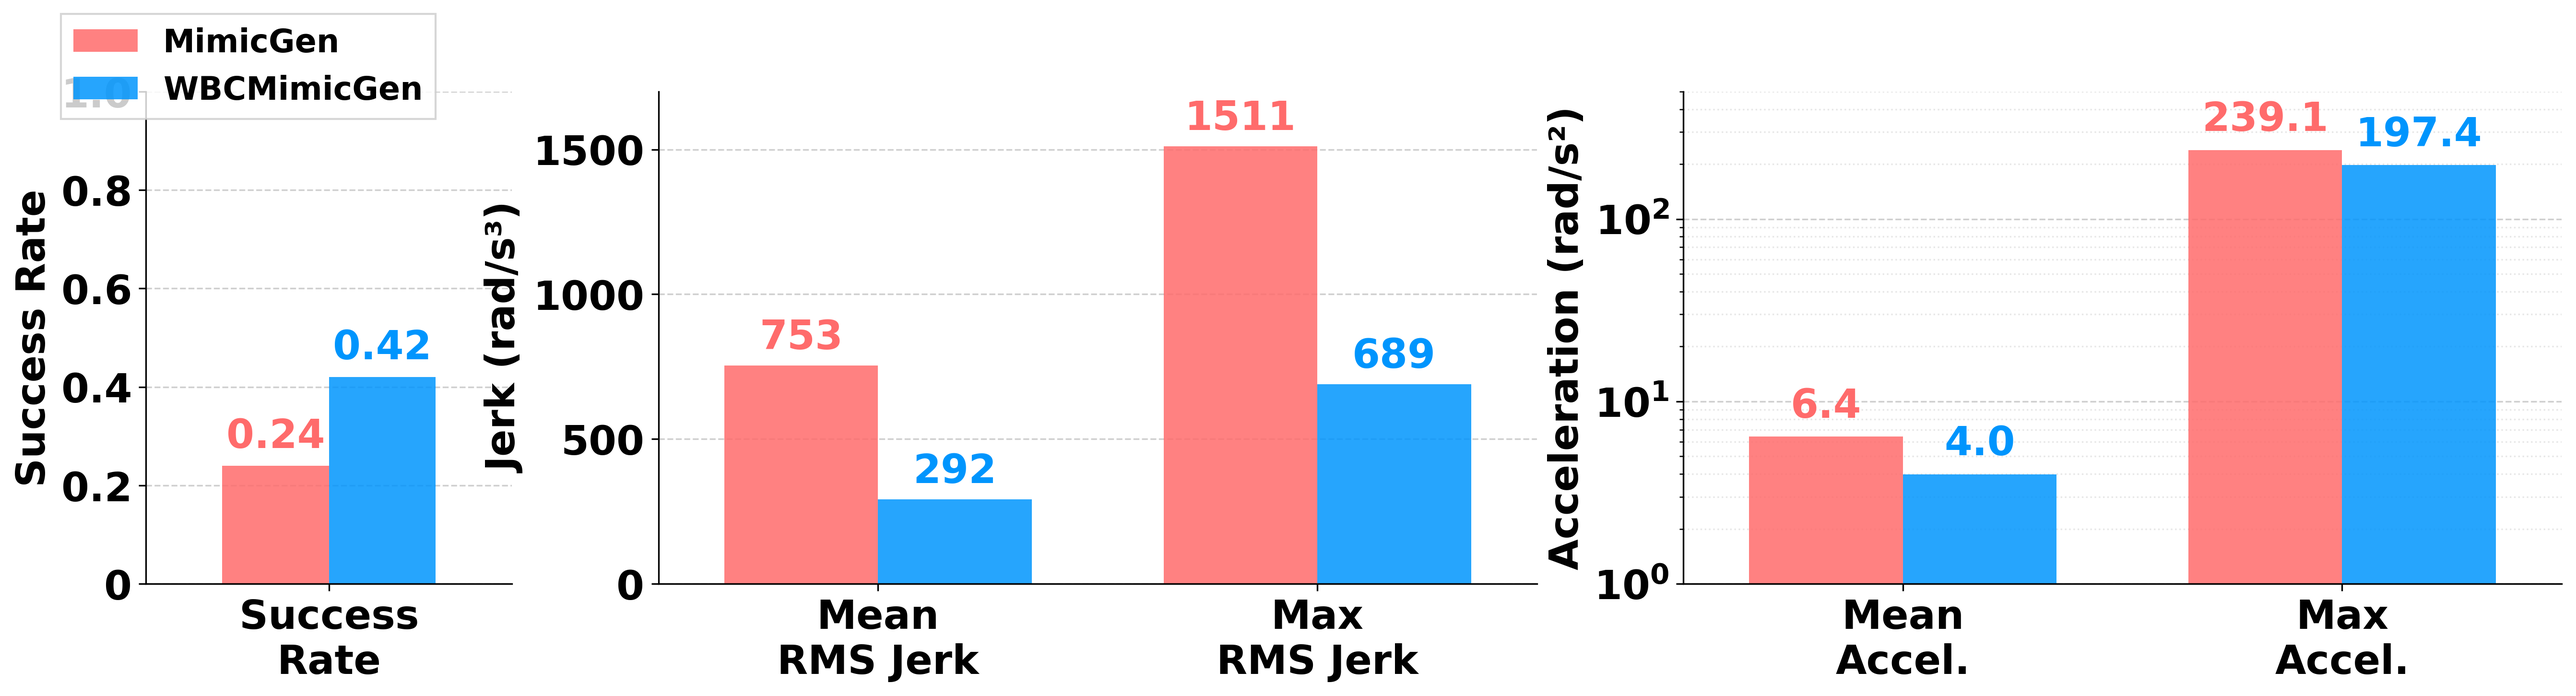
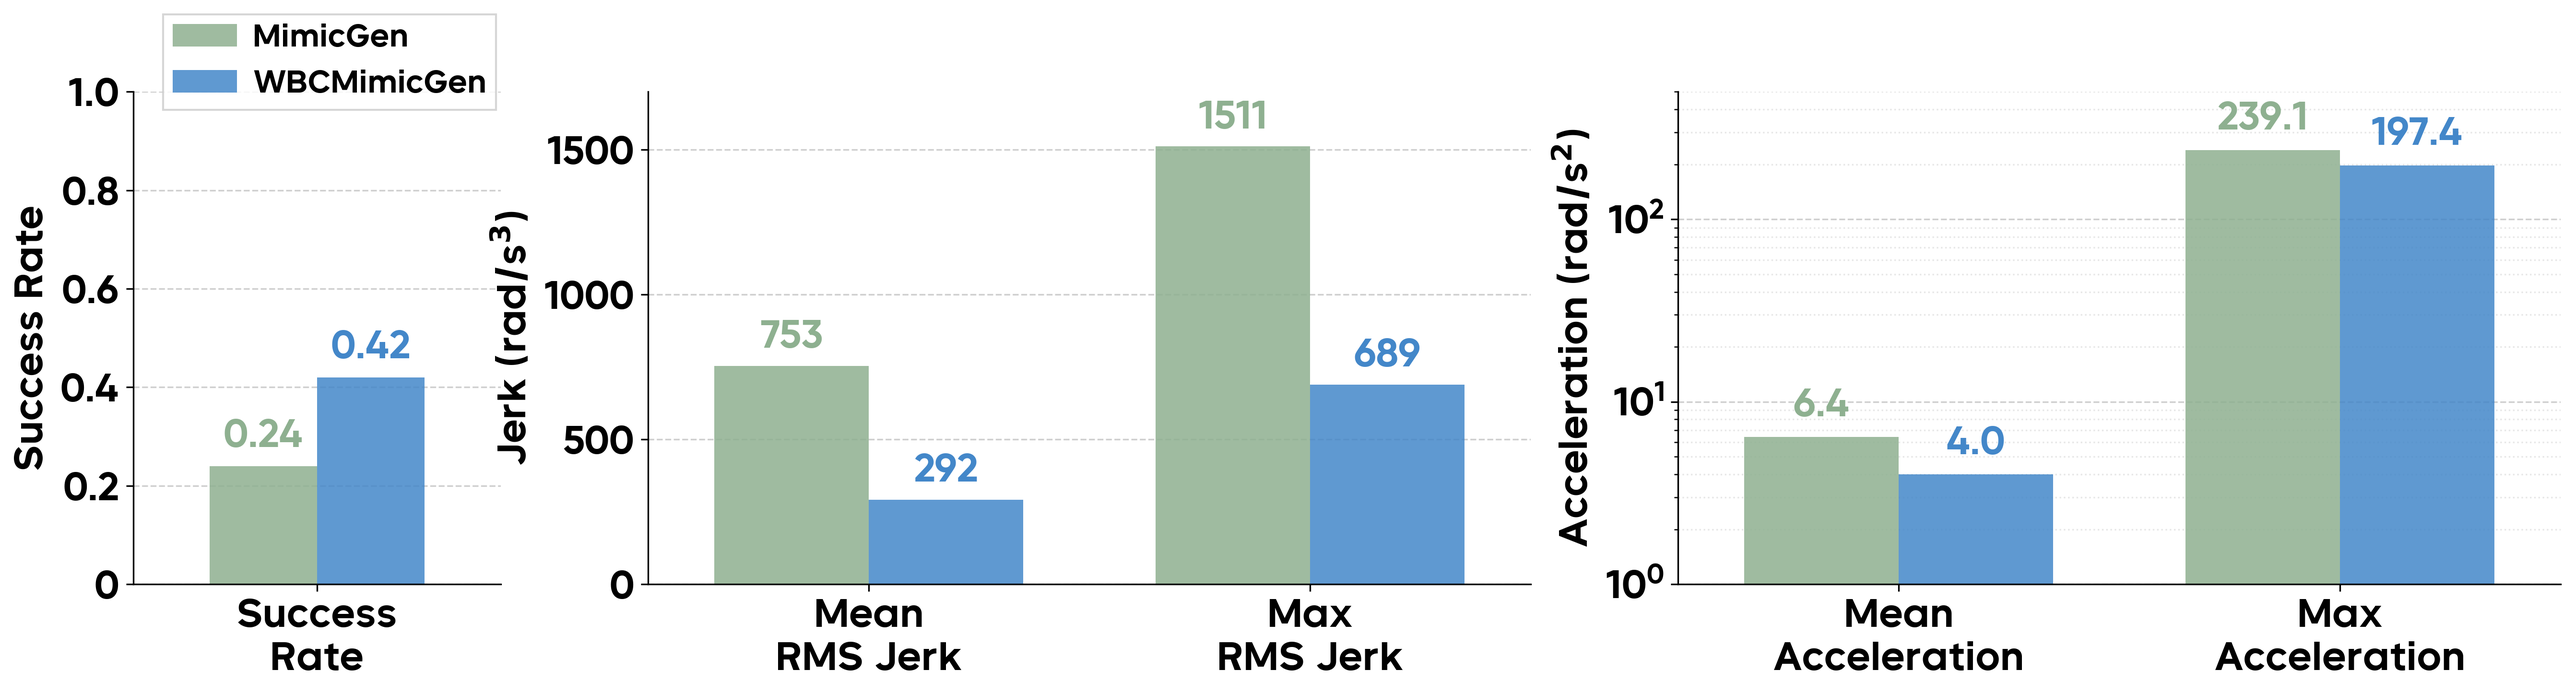
update hist plots

diff --git a/index.html b/index.html
@@ -43,7 +43,7 @@
                 </div>
                 <div class="author-row">
                     <span class="author"><a href="https://timerchen.github.io/" target="_blank">Jingxiao Chen</a><sup>1,2</sup></span>
-                    <span class="author"><a href="https://scholar.google.com/citations?user=GPmUxtIAAAAJ" target="_blank">Jiafeng Xu</a><sup>1</sup></span>
+                    <span class="author"><a href="https://simanxu.github.io/" target="_blank">Jiafeng Xu</a><sup>1</sup></span>
                     <span class="author"><a href="https://yangyichu.github.io/" target="_blank">Yichu Yang</a><sup>1</sup></span>
                     <span class="author"><a href="https://scholar.google.com/citations?user=0ar3JNYAAAAJ" target="_blank">Yunfeng Lin</a><sup>2</sup></span>
                     <span class="author"><a href="https://scholar.google.com/citations?user=laOWyTQAAAAJ" target="_blank">Xinghang Li</a><sup>4</sup></span>
